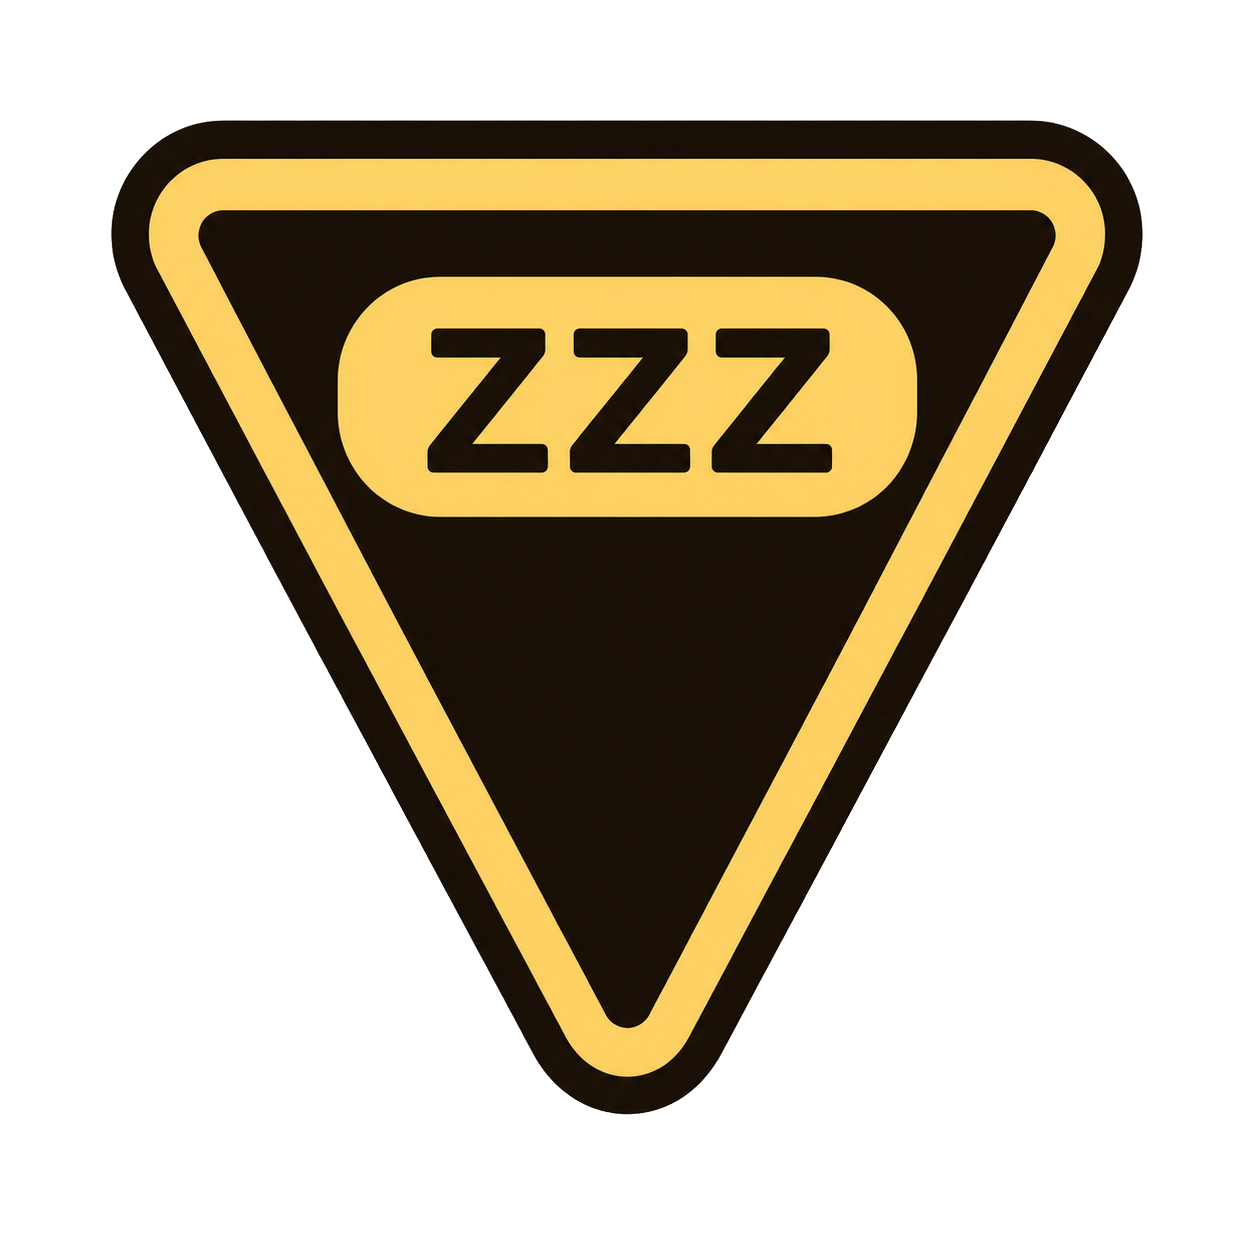
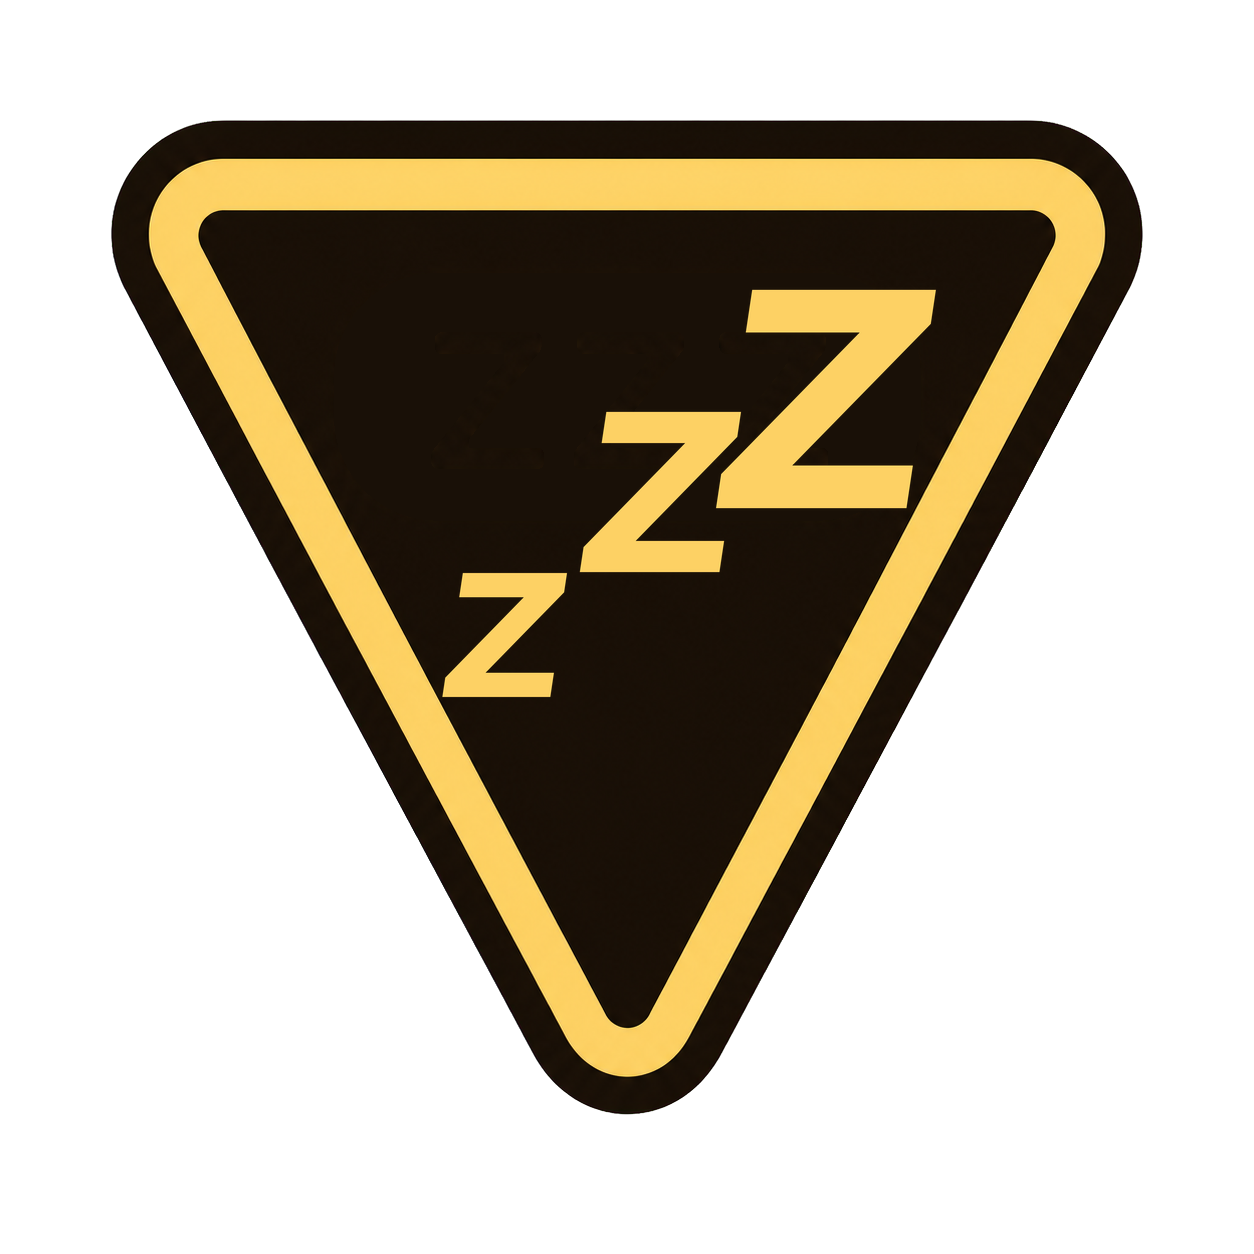
Redraw the exhaustion-token triangle's ZZZ as three diagonal amber Zs
The pill and its tiny black-on-amber "ZZZ" read as an unbroken bar at
the 26px the board actually draws it. scripts/redraw_exhaust_zs.py
erases the pill back to the face's own ink and draws three bold Zs
straight onto the face in the ring's own amber (teal for the Cyborg
variant, regenerated via the existing recolor script), stepped down
in size from a corner-hugging top-right Z to a bottom-left one, each
placed by search so none clips the ring or touches its neighbours.

Changed region(s): [[0.2488, 0.2177, 0.7464, 0.5598]]

diff --git a/scripts/redraw_exhaust_zs.py b/scripts/redraw_exhaust_zs.py
@@ -1,0 +1,219 @@
+#!/usr/bin/env python3
+"""Redraw the exhaustion-token triangle's "ZZZ" as three large, amber Zs.
+
+`exhaust.png` is the amber triangle `render.py` draws on every card that is
+carrying exhaustion tokens (`load_exhaust_icon`, `draw_exhaustion_badge`).
+Until now its center held a small amber pill with the word "ZZZ" stamped
+into it in the same near-black ink as the triangle's own edge and face --
+readable at the token's full size, but at the 26px the board actually draws
+it the pill read as little more than a dashed amber bar.
+
+This keeps the triangle -- the edge, the ring and the face are untouched
+pixels, not regenerated geometry, for the same reason
+`scripts/recolor_exhaust_token.py` never redraws the shape it recolors: a
+reconstruction risks a triangle that doesn't quite match the one it used to
+be. Only the content inside the ring changes: the pill and its lettering are
+erased back to the face's own ink, and three bold "Z" glyphs are drawn
+straight onto the face in the ring's own amber (`SOURCE_AMBER`, sampled off
+the art, same as the recolor script uses) -- stepped down in size top-right
+to bottom-left, the largest tucked into the triangle's own top-right corner
+as closely as it can sit without touching the ring, each one clear of its
+neighbours rather than overlapping.
+
+**The first draft overlapped the three Zs and undersold the corner.** It
+read as one interlocking zigzag rather than three letters, and its largest
+Z sat well short of the top-right corner because it was placed by eye
+rather than measured against where the ring actually is. This draft
+searches for every glyph's position instead: the biggest Z's spot is
+whichever clears the face's row-by-row width (the triangle narrowing
+toward its point, sampled the same way the erase mask is built) while
+maximising how far into the corner it sits; the other two are placed as
+close as they can get to their target spot -- the smallest near the first
+draft's own position, the middle roughly between its neighbours -- while
+keeping a 10px gap from every other glyph's actual ink, not just its
+bounding box, so letters that lean past their own rectangle (the shear, or
+a stroke's own diagonal) still can't touch.
+
+    python3 scripts/redraw_exhaust_zs.py                 # dry run
+    python3 scripts/redraw_exhaust_zs.py --in-place
+    python3 scripts/redraw_exhaust_zs.py --out /tmp/tokens
+
+It writes nothing unless asked, same as `recolor_exhaust_token.py` and
+`render_condition_tokens.py` -- what it would overwrite is tracked art.
+**Run `recolor_exhaust_token.py` again afterward**: `exhaust_cyborg.png` is
+derived from `exhaust.png` by that script, not by this one, and the two
+drift apart the moment only one of them is regenerated.
+
+The erase position, the glyph positions and sizes below are all measured
+off this specific piece of art (the pill's own bounding box, the face's
+row-by-row width as the triangle narrows) the same way `SOURCE_INK` and
+`SOURCE_AMBER` are -- they hold only because nothing about the triangle's
+outer geometry has moved. A future redraw of the outer shape needs these
+re-measured, not reused.
+"""
+import argparse
+import sys
+from pathlib import Path
+
+from PIL import Image, ImageDraw, ImageFilter, ImageFont
+
+PROJECT_ROOT = Path(__file__).resolve().parents[1]
+sys.path.insert(0, str(PROJECT_ROOT))
+
+EMOJI_DIR = PROJECT_ROOT / "d12ball" / "images" / "emoji"
+SOURCE = EMOJI_DIR / "exhaust.png"
+FONT_PATH = PROJECT_ROOT / "d12ball" / "fonts" / "DejaVuSans-Bold.ttf"
+
+# The source's own two flat colours -- the same ones
+# `recolor_exhaust_token.py` samples, since the Zs are drawn in the ring's
+# own amber and the erased pill is filled with the face's own ink.
+SOURCE_INK = (25, 16, 7, 255)
+SOURCE_AMBER = (253, 209, 100, 255)
+
+# A point inside the old pill's amber fill (not on a letter stroke) and one
+# inside the face below it, both read off the source art. `thresh` is wide
+# enough to sweep in the pill's own antialiased border along with its fill.
+PILL_SEED = (400, 300)
+PILL_ERASE_BOUNDS = (320, 260, 935, 530)
+PILL_ERASE_THRESH = 140
+PILL_ERASE_DILATE = 9
+
+# Pillow does not antialias text it draws, so each glyph is rendered at this
+# multiple and downsized -- the same trick `render_condition_tokens.py`
+# uses for its word.
+SUPERSAMPLE = 4
+
+# Three Zs, largest at the top right and smallest at the bottom left. Each
+# is (font size, (center x, center y)) at the canvas's own 1254px scale,
+# found by search rather than guessed: for the largest, every position that
+# clears the face's row-by-row width (the triangle narrowing toward its
+# point) without touching the ring, scored by how far into the top-right
+# corner it sits; for the other two, the position nearest the previous
+# draft's spot (the smallest) or the midpoint between its neighbours (the
+# middle) that both clears the ring and keeps a 10px gap from the other
+# glyphs' own ink, not just their boxes -- the first draft let them touch.
+ZS = [
+    (300, (858, 399)),
+    (220, (684, 492)),
+    (170, (523, 635)),
+]
+
+# A horizontal shear (not a rotation, so the strokes across each Z stay
+# straight) that leans the top of every glyph toward the upper right --
+# what makes the group of three read as one diagonal running top-right to
+# bottom-left rather than three Zs stacked straight down. Lighter than the
+# first draft's 0.30: that shear widened each glyph enough to force them
+# into touching once they were spaced apart to clear the ring and each
+# other.
+SHEAR = 0.15
+
+
+def erase_pill(image: Image.Image) -> Image.Image:
+    """Flood-fill the old pill back to the face's own ink.
+
+    The fill is done on a throwaway marker copy so the source's exact pixel
+    values are never blended into -- the marked pixels are then dilated a
+    few pixels and painted solid ink on the real image, which also takes
+    the pill's own thin antialiased border with it (the flood fill alone,
+    at a threshold tight enough not to leak into the face, stops just
+    short of that border and leaves a faint outline behind).
+    """
+    left, top, right, bottom = PILL_ERASE_BOUNDS
+    marker = image.copy()
+    ImageDraw.floodfill(marker, PILL_SEED, (0, 255, 0, 255), thresh=PILL_ERASE_THRESH)
+    mpx = marker.load()
+
+    mask = Image.new("L", image.size, 0)
+    mask_px = mask.load()
+    for y in range(top, bottom):
+        for x in range(left, right):
+            if mpx[x, y][:3] == (0, 255, 0):
+                mask_px[x, y] = 255
+    mask = mask.filter(ImageFilter.MaxFilter(PILL_ERASE_DILATE))
+
+    erased = image.copy()
+    erased.paste(Image.new("RGBA", image.size, SOURCE_INK), (0, 0), mask)
+    return erased
+
+
+def make_z(size: int) -> Image.Image:
+    """One sheared "Z" glyph, drawn big and downsized for antialiasing."""
+    big = size * SUPERSAMPLE
+    font = ImageFont.truetype(str(FONT_PATH), big)
+    measure = ImageDraw.Draw(Image.new("RGBA", (1, 1)))
+    left, top, right, bottom = measure.textbbox((0, 0), "Z", font=font)
+    pad = int(big * 0.3)
+    layer = Image.new(
+        "RGBA", (right - left + pad * 2, bottom - top + pad * 2), (0, 0, 0, 0)
+    )
+    ImageDraw.Draw(layer).text(
+        (pad - left, pad - top), "Z", font=font, fill=SOURCE_AMBER
+    )
+
+    width, height = layer.size
+    mid_y = height / 2
+    sheared = layer.transform(
+        (int(width + SHEAR * height), height),
+        Image.AFFINE,
+        (1, SHEAR, -SHEAR * mid_y, 0, 1, 0),
+        resample=Image.BICUBIC,
+    )
+    return sheared.resize(
+        (sheared.width // SUPERSAMPLE, sheared.height // SUPERSAMPLE), Image.LANCZOS
+    )
+
+
+def redraw(source: Path) -> Image.Image:
+    token = erase_pill(Image.open(source).convert("RGBA"))
+    for size, (center_x, center_y) in ZS:
+        glyph = make_z(size)
+        token.alpha_composite(
+            glyph,
+            (int(center_x - glyph.width / 2), int(center_y - glyph.height / 2)),
+        )
+    return token
+
+
+def main() -> int:
+    parser = argparse.ArgumentParser(description=__doc__)
+    parser.add_argument(
+        "--in-place",
+        action="store_true",
+        help="overwrite the tracked art in d12ball/images/emoji",
+    )
+    parser.add_argument(
+        "--out",
+        type=Path,
+        help="write the token to this directory instead",
+    )
+    args = parser.parse_args()
+
+    if args.in_place and args.out:
+        parser.error("--in-place and --out ask for two different things")
+
+    destination = EMOJI_DIR if args.in_place else args.out
+    if destination is not None:
+        destination.mkdir(parents=True, exist_ok=True)
+
+    token = redraw(SOURCE)
+    if destination is None:
+        print("exhaust: three diagonal Zs -- not written")
+        print("\nDry run. Pass --in-place to overwrite, or --out to look first.")
+        return 0
+
+    path = destination / "exhaust.png"
+    token.save(path)
+    print(f"exhaust: three diagonal Zs -> {path}")
+    if args.in_place:
+        print(
+            "\nWritten. Run scripts/recolor_exhaust_token.py --in-place next -- "
+            "exhaust_cyborg.png is derived from this art and is now stale. "
+            "Restart the bot (render.py caches icons at first use) and upload "
+            "exhaust.png to the Developer Portal's Emojis tab if it is wired up "
+            "to its own application emoji."
+        )
+    return 0
+
+
+if __name__ == "__main__":
+    raise SystemExit(main())

diff --git a/docs/design/species-abilities.md b/docs/design/species-abilities.md
@@ -327,6 +327,31 @@ missing other half for Injured, scoped the same way.
   has no application emoji of its own, since nothing in the cog's own text
   messages names an exhaustion *count* the way `describe_exhaustion_gain`
   names the Drained/Exhausted condition.
+- **`exhaust.png`'s content got its own redraw, same day.** The pill and its
+  small "ZZZ" (black ink on an amber pill, both at the same tiny scale that
+  read as an unbroken bar at 26px) are gone; `scripts/redraw_exhaust_zs.py`
+  erases the pill back to the face's own ink and draws three bold "Z"s
+  straight onto the face in the ring's own amber, stepped down in size
+  top-right to bottom-left, the largest tucked into the triangle's own
+  corner. **The triangle itself is still not regenerated** -- the edge,
+  ring and face are the same pixels they always were, only the content
+  inside the ring changed, for the same "don't risk a shape that doesn't
+  match" reason `recolor_exhaust_token.py` never redraws it either. That
+  leaves `exhaust_cyborg.png` still exactly the **recolour, not a redraw**
+  described above: it is derived from whatever `exhaust.png` currently
+  holds, so `recolor_exhaust_token.py --in-place` has to run again after
+  any change to the amber art, including this one, or the two drift apart.
+  - **The first draft placed each glyph by eye and let them overlap** into
+    one interlocking zigzag, with the biggest Z well short of the corner.
+    The version that shipped places every glyph by search instead: the
+    biggest Z's spot is whichever clears the face's row-by-row width (the
+    triangle narrowing toward its point, sampled the same way the erase
+    mask is built) while maximising how far into the corner it sits; the
+    other two are placed as close as they can get to a target spot -- the
+    smallest near the first draft's own position, the middle roughly
+    between its neighbours -- while keeping a 10px gap from every other
+    glyph's actual ink, not just its bounding box, so a glyph's own
+    diagonal stroke still can't touch its neighbour.
 
 **Overdrive is the only thing in the game declared before a roll**, which is
 what it cost to build. Every roll already sits behind a button any coach may
